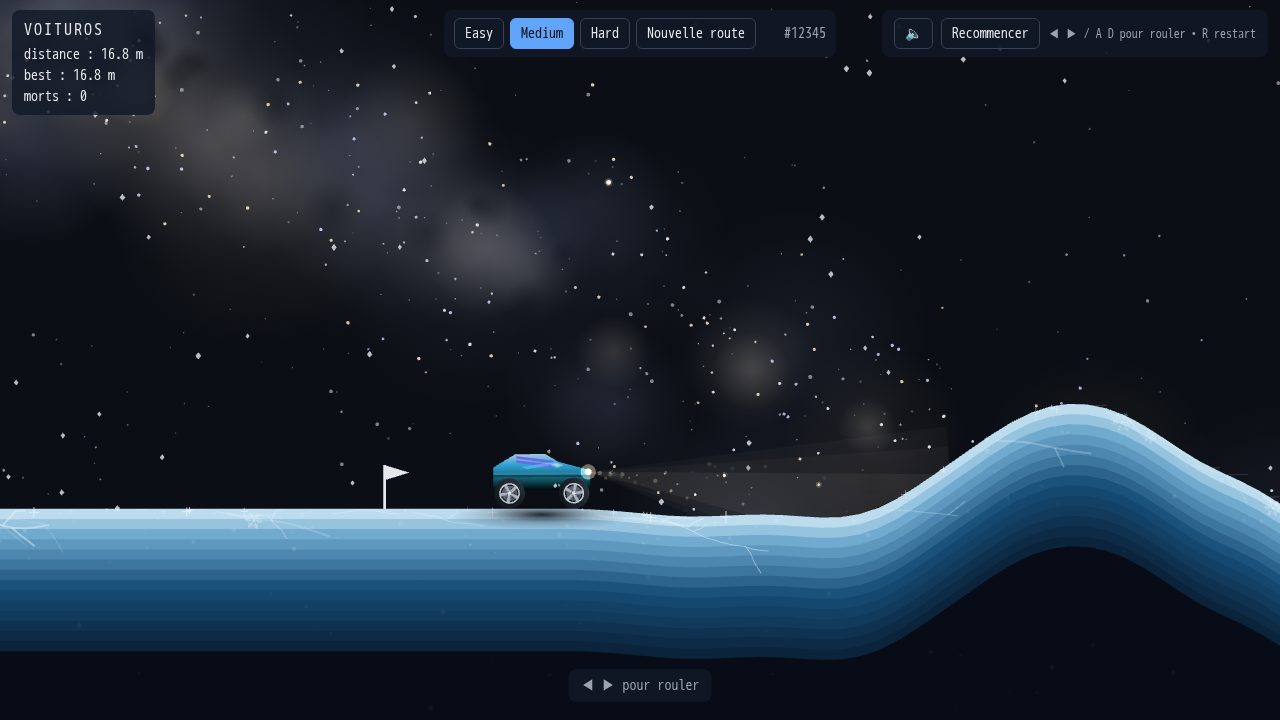
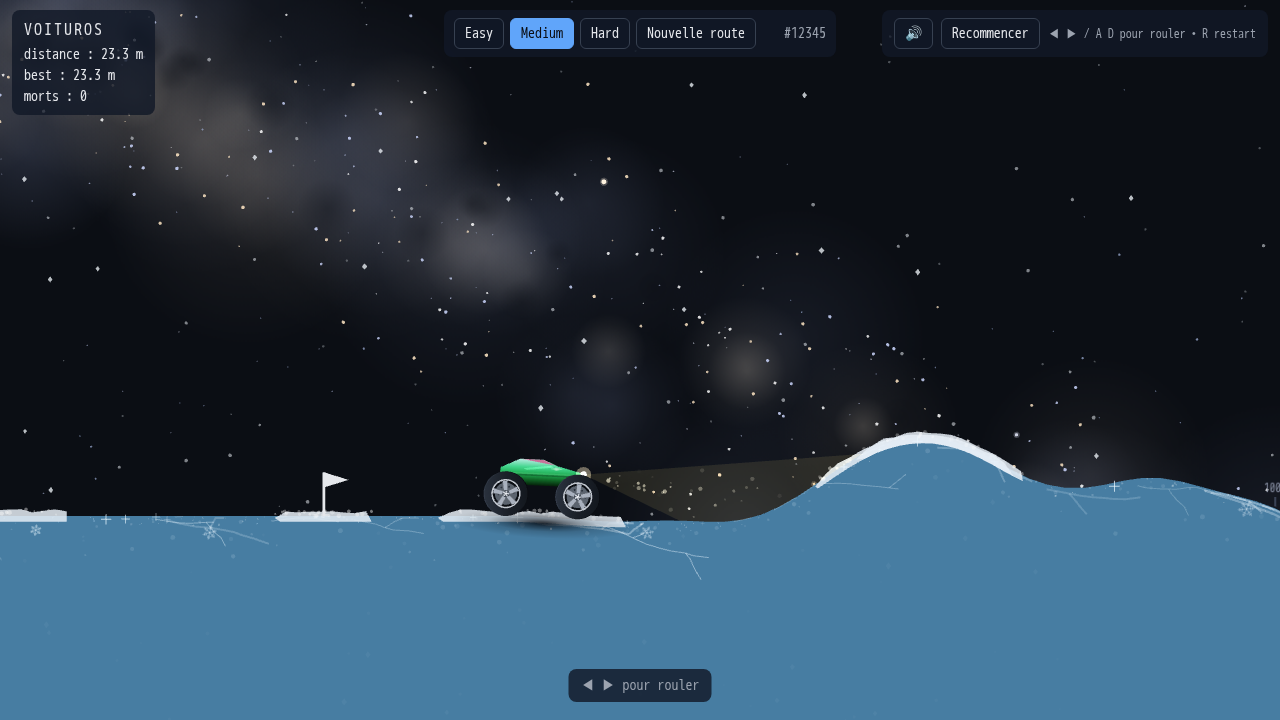
Voituros: neige monde + faisceau jaune + route organique + glace unie

diff --git a/src/neige.js b/src/neige.js
@@ -1,5 +1,20 @@
+/**
+ * Neige réaliste en COORDONNÉES MONDE (verrouillée au monde comme la
+ * glace : montée/descente/vitesse/zoom de la caméra justes par
+ * construction — aucun hack de vent apparent). 3 couches de profondeur,
+ * sway sinusoïdal par flocon, rafales globales, éclairée par le faisceau
+ * et clipsée au sol. Zéro alloc par frame.
+ * @module neige
+ */
+
+/** Nombre de flocons (fixe, tient 60 fps partout). */
 export const SNOW_N = 220;
 
+/**
+ * Crée la chute (positions monde, état persistant).
+ * @param {unknown} [seed] Graine.
+ * @returns {{ flakes: Array<{ x: number, y: number, z: 0|1|2, size: number, vy: number, ph: number, fr: number, sw: number }>, t: number, wind: number }}
+ */
 export function createSnow(seed = 7) {
   let s = (typeof seed === 'number' ? seed : 7) >>> 0 || 1;
   const rnd = () => {
@@ -14,8 +29,8 @@ export function createSnow(seed = 7) {
     const r = rnd();
     const z = r < 0.4 ? 0 : r < 0.75 ? 1 : 2;
     flakes.push({
-      x: rnd(),
-      y: rnd(),
+      x: (rnd() - 0.5) * 3000,
+      y: (rnd() - 0.5) * 1600,
       z,
       size: z === 0 ? 0.7 + rnd() * 0.6 : z === 1 ? 1.2 + rnd() * 0.8 : 2 + rnd() * 0.9,
       vy: z === 0 ? 25 + rnd() * 20 : z === 1 ? 50 + rnd() * 30 : 95 + rnd() * 45,
@@ -27,46 +42,57 @@ export function createSnow(seed = 7) {
   return { flakes, t: rnd() * 20, wind: 10 };
 }
 
-export function drawSnow(g, snow, dt, w, h, camVX = 0, env = null) {
+/**
+ * Met à jour + dessine la neige (projection caméra identique au monde :
+ * sx = (wx − camX)·zoom + w/2, sy = (wy − camY)·zoom + h·0.55).
+ * @param {PIXI.Graphics} g Cible (layer écran).
+ * @param {{ flakes: Array, t: number, wind: number }} snow État.
+ * @param {number} dt Delta temps (s).
+ * @param {{ w: number, h: number, camX: number, camY: number, zoom: number }} view Vue.
+ * @param {{ beam: (wx:number,wy:number)=>number, groundY: (wx:number)=>number } | null} [env] Faisceau + sol (optionnel).
+ * @returns {void}
+ */
+export function drawSnow(g, snow, dt, view, env = null) {
   const step = Math.min(0.1, Math.max(0, dt || 0));
   snow.t += step;
   const t = snow.t;
-
   snow.wind = 10 + 18 * Math.sin(t * 0.11) + 8 * Math.sin(t * 0.043 + 2);
   g.clear();
+  const w = view.w;
+  const h = view.h;
+  const zoom = view.zoom > 0 ? view.zoom : 1;
   if (w <= 0 || h <= 0 || !Number.isFinite(step) || step <= 0) return;
-  const vx = Math.max(-1500, Math.min(1500, Number.isFinite(camVX) ? camVX : 0));
-  const useEnv =
-    env !== null &&
-    env !== undefined &&
-    env.zoom > 0 &&
-    typeof env.beam === 'function' &&
-    typeof env.groundY === 'function';
-  const ez = useEnv ? env.zoom : 1;
-  const ecx = useEnv ? env.camX : 0;
-  const ecy = useEnv ? env.camY : 0;
+  const hw = w / zoom / 2 + 120;
+  const hh = h / zoom / 2 + 120;
+  const cx = view.camX;
+  const cy = view.camY;
+  const useEnv = env !== null && env !== undefined && typeof env.beam === 'function' && typeof env.groundY === 'function';
   for (const f of snow.flakes) {
     const depthK = f.z === 0 ? 0.4 : f.z === 1 ? 0.7 : 1;
-    f.y += (f.vy / h) * step;
-
-    const swayX = Math.sin(t * f.fr + f.ph) * f.sw;
-    f.x += ((snow.wind * depthK - vx * depthK * 0.9 + swayX * f.fr) / w) * step;
-    if (f.y > 1.02) {
-      f.y = -0.02;
-      f.x = Math.random();
-    } else if (f.y < -0.03) {
-      f.y = 1.01;
+    f.y += (f.vy / 1) * step;
+    f.x += snow.wind * depthK * step;
+    if (f.x < cx - hw) {
+      f.x += hw * 2;
+      f.y = cy + (Math.random() * 2 - 1) * hh;
+    } else if (f.x > cx + hw) {
+      f.x -= hw * 2;
+      f.y = cy + (Math.random() * 2 - 1) * hh;
     }
-    if (f.x > 1.03) f.x -= 1.06;
-    else if (f.x < -0.03) f.x += 1.06;
-    const px = f.x * w + swayX * 0.35;
-    const py = f.y * h;
+    if (f.y < cy - hh) {
+      f.y += hh * 2;
+      f.x = cx + (Math.random() * 2 - 1) * hw;
+    } else if (f.y > cy + hh) {
+      f.y -= hh * 2;
+      f.x = cx + (Math.random() * 2 - 1) * hw;
+    }
+    const swayX = Math.sin(t * f.fr + f.ph) * f.sw;
+    const wx = f.x + swayX * 0.35;
+    const wy = f.y;
+    const px = (wx - cx) * zoom + w / 2;
+    const py = (wy - cy) * zoom + (h * 0.55);
     let alpha = f.z === 0 ? 0.28 : f.z === 1 ? 0.5 : 0.75;
     let tint = '#f2f7fc';
     if (useEnv) {
-
-      const wx = (px - w / 2) / ez + ecx;
-      const wy = (py - h * 0.55) / ez + ecy;
       if (wy > env.groundY(wx) + 2) {
         alpha *= 0.06;
       } else {
@@ -77,9 +103,8 @@ export function drawSnow(g, snow, dt, w, h, camVX = 0, env = null) {
         }
       }
     }
+    const s = f.size * zoom;
     if (f.z === 2) {
-
-      const s = f.size;
       g.moveTo(px - s, py);
       g.lineTo(px, py - s * 1.25);
       g.lineTo(px + s, py);
@@ -87,9 +112,8 @@ export function drawSnow(g, snow, dt, w, h, camVX = 0, env = null) {
       g.closePath();
       g.fill({ color: tint, alpha });
     } else {
-      g.circle(px, py, f.size);
+      g.circle(px, py, s);
       g.fill({ color: tint, alpha });
     }
   }
 }
-

diff --git a/src/glace.js b/src/glace.js
@@ -1,12 +1,12 @@
 import { mulberry32 } from './utils.js';
 import { routeYAt } from './route.js';
 
-export const ICE_DEPTH = 150;
+export const ICE_DEPTH = 300;
 
 export const ICE_TINTS = {
-  easy: { top: '#d8eff7', mid: '#7fb8d9', deep: '#1d5a85' },
-  medium: { top: '#cfe8f5', mid: '#6fa9cf', deep: '#174e78' },
-  hard: { top: '#c2ddf0', mid: '#6399c2', deep: '#123f66' },
+  easy: { top: '#d3e9f4', mid: '#5f97ba', deep: '#1a4c72' },
+  medium: { top: '#c9e4f2', mid: '#5d93b8', deep: '#1a4e75' },
+  hard: { top: '#c0dcf0', mid: '#578ab2', deep: '#174870' },
 };
 
 function mixHex(a, b, t) {
@@ -30,27 +30,17 @@ export function drawIce(graphics, points, difficulty, seed) {
   const tint = ICE_TINTS[key] || ICE_TINTS.medium;
   const n = points.length;
   const rng = mulberry32(typeof seed === 'number' ? seed : 1);
+  const x0 = points[0].x;
+  const x1 = points[n - 1].x;
 
-  graphics.moveTo(points[0].x, points[0].y + ICE_DEPTH);
-  for (let i = 0; i < n; i++) graphics.lineTo(points[i].x, points[i].y + ICE_DEPTH);
+  const ICE = depthColor(tint, 0.3);
+  graphics.moveTo(points[0].x, points[0].y);
+  for (let i = 1; i < n; i++) graphics.lineTo(points[i].x, points[i].y);
   graphics.lineTo(points[n - 1].x, points[n - 1].y + 2000);
   graphics.lineTo(points[0].x, points[0].y + 2000);
   graphics.closePath();
-  graphics.fill({ color: '#070c16' });
+  graphics.fill({ color: ICE });
 
-  const BANDS = 14;
-  for (let b = 0; b < BANDS; b++) {
-    const f0 = b / BANDS;
-    const f1 = (b + 1) / BANDS;
-    graphics.moveTo(points[0].x, points[0].y + f0 * ICE_DEPTH);
-    for (let i = 1; i < n; i++) graphics.lineTo(points[i].x, points[i].y + f0 * ICE_DEPTH);
-    for (let i = n - 1; i >= 0; i--) graphics.lineTo(points[i].x, points[i].y + f1 * ICE_DEPTH);
-    graphics.closePath();
-    graphics.fill({ color: depthColor(tint, (f0 + f1) / 2) });
-  }
-
-  const x0 = points[0].x;
-  const x1 = points[n - 1].x;
   const clampCrack = (x, y) => {
     const cx = x < x0 + 10 ? x0 + 10 : x > x1 - 10 ? x1 - 10 : x;
     const sy = routeYAt(points, cx);
@@ -100,7 +90,7 @@ export function drawIce(graphics, points, difficulty, seed) {
   for (let r = 0; r < 3; r++) {
     let x = x0 + rng() * (x1 - x0 - 600);
     graphics.moveTo(x, routeYAt(points, x) + 4);
-    const len = 300 + rng() * 300;
+    const len = Math.min(300 + rng() * 300, x1 - 5 - x);
     for (let s = x; s < x + len; s += 24) {
       graphics.lineTo(s, routeYAt(points, s) + 4 + Math.sin(s * 0.02 + r * 2) * 3);
     }
@@ -115,34 +105,55 @@ export function drawIce(graphics, points, difficulty, seed) {
     graphics.fill({ color: '#e8f4fc', alpha: 0.05 + rng() * 0.1 });
   }
 
-  for (let i = 0; i < 500; i++) {
+  for (let i = 0; i < 1300; i++) {
     const x = x0 + rng() * (x1 - x0);
     const y = routeYAt(points, x) + rng() * rng() * 14;
     const s = rng() < 0.8 ? 1 : 2;
     graphics.rect(x, y, s, s);
-    graphics.fill({ color: rng() < 0.7 ? '#ffffff' : '#bfe6ff', alpha: 0.1 + rng() * 0.3 });
+    graphics.fill({ color: rng() < 0.7 ? '#ffffff' : '#bfe6ff', alpha: 0.12 + rng() * 0.33 });
   }
 
   const nc = Math.floor((x1 - x0) / 350);
   for (let i = 0; i < nc; i++) {
-    const x = x0 + rng() * (x1 - x0);
+    const x = x0 + 15 + rng() * (x1 - x0 - 30);
+    const cr = 6 + rng() * 7;
     drawCrystal(
       graphics,
       x,
-      routeYAt(points, x) + 4 + rng() * 10,
-      6 + rng() * 7,
+      routeYAt(points, x) + cr + 2 + rng() * 8,
+      cr,
       rng() * Math.PI,
       '#e8f4fc',
       0.16 + rng() * 0.16,
     );
   }
 
+  for (let i = 0; i < Math.floor((x1 - x0) / 220); i++) {
+    const w = 80 + rng() * 140;
+    const cx = x0 + w / 2 + 5 + rng() * (x1 - x0 - w - 10);
+    const drift = 3 + rng() * 8;
+    graphics.moveTo(cx - w / 2, routeYAt(points, cx - w / 2) + 2);
+    for (let x = cx - w / 2 + 12; x <= cx + w / 2; x += 12) {
+      graphics.lineTo(x, routeYAt(points, x) - drift * (0.5 + rng() * 0.5));
+    }
+    for (let x = cx + w / 2; x >= cx - w / 2; x -= 12) {
+      graphics.lineTo(x, routeYAt(points, x) + 6);
+    }
+    graphics.closePath();
+    graphics.fill({ color: '#e6eef6', alpha: 0.85 });
+    for (let k = 0; k < 24; k++) {
+      const x = cx - w / 2 + rng() * w;
+      graphics.circle(x, routeYAt(points, x) - rng() * drift, 1 + rng() * 1.5);
+      graphics.fill({ color: '#ffffff', alpha: 0.2 + rng() * 0.25 });
+    }
+  }
+
   for (let i = 0; i < 130; i++) {
     const x = x0 + rng() * (x1 - x0);
-    const y = routeYAt(points, x) + 1;
     const w = 6 + rng() * 22;
-    graphics.moveTo(x, y);
-    graphics.lineTo(x + w, y - 0.5);
+    const xB = x + w > x1 ? x1 : x + w;
+    graphics.moveTo(x, routeYAt(points, x) + 1);
+    graphics.lineTo(xB, routeYAt(points, xB) + 0.5);
     graphics.stroke({ width: 1, color: '#f4fbff', alpha: 0.07 + rng() * 0.14 });
   }
 }

diff --git a/src/main.js b/src/main.js
@@ -66,12 +66,8 @@ async function boot() {
   const snowGfx = new PIXI.Graphics();
   snowLayer.addChild(snowGfx);
   const snow = createSnow(7);
-
+  const snowView = { w: 0, h: 0, camX: 0, camY: 0, zoom: 1 };
   const snowEnv = {
-    camVX: 0,
-    camX: 0,
-    camY: 0,
-    zoom: 1,
     beam: (wx, wy) => (game.car ? beamLight(game.car, wx, wy) : 0),
     groundY: (wx) => (game.route ? routeYAt(game.route.points, wx) : 1e9),
   };
@@ -319,7 +315,6 @@ async function boot() {
   let acc = 0;
   let prev = performance.now();
   let muteTick = 0;
-  let prevCamX = 0;
   app.ticker.add(() => {
     const now = performance.now();
     const dt = Math.min((now - prev) / 1000, 0.1);
@@ -339,13 +334,12 @@ async function boot() {
     sky.update(dt, camera.camX, camera.camY);
 
     game.updateIce(dt, camera.camX, (app.screen.width || innerWidth) / (camera.zoom || 1));
-    const camVX = dt > 0 ? (camera.camX - prevCamX) / dt : 0;
-    prevCamX = camera.camX;
-    snowEnv.camVX = camVX;
-    snowEnv.camX = camera.camX;
-    snowEnv.camY = camera.camY;
-    snowEnv.zoom = camera.zoom || 1;
-    drawSnow(snowGfx, snow, dt, app.screen.width || innerWidth, app.screen.height || innerHeight, camVX, snowEnv);
+    snowView.w = app.screen.width || innerWidth;
+    snowView.h = app.screen.height || innerHeight;
+    snowView.camX = camera.camX;
+    snowView.camY = camera.camY;
+    snowView.zoom = camera.zoom || 1;
+    drawSnow(snowGfx, snow, dt, snowView, snowEnv);
 
     engine.update(dt, {
       speed: game.carLongSpeed,

diff --git a/src/route.js b/src/route.js
@@ -52,11 +52,14 @@ export function generateRoute(seed, difficulty) {
 
   const n1 = makeNoise1D(rng, P.stepNoise || 140, START_X, END_X);
   const n2 = makeNoise1D(rng, (P.stepNoise || 140) / 2.7, START_X, END_X);
+  const wob = makeNoise1D(rng, 430, START_X, END_X);
+  const warpAmp = P.L1 * 0.18;
 
   const rawY = (x) => {
     const env = smoothstep(200, 800, x);
-    const fbm = 0.65 * n1(x) + 0.35 * n2(x + 13.7);
-    return env * (P.A1 * Math.sin((TAU * x) / P.L1 + phi1) + P.A2 * Math.sin((TAU * x) / P.L2 + phi2) + P.A3 * fbm);
+    const xw = x + warpAmp * wob(x);
+    const fbm = 0.65 * n1(xw) + 0.35 * n2(xw + 13.7);
+    return env * (P.A1 * Math.sin((TAU * xw) / P.L1 + phi1) + P.A2 * Math.sin((TAU * xw) / P.L2 + phi2) + P.A3 * fbm);
   };
 
   const maxDy = Math.tan((P.slopeMaxDeg * Math.PI) / 180) * DX;

diff --git a/src/voiture.js b/src/voiture.js
@@ -626,9 +626,7 @@ export function updateCarLight(car, dt, routePoints) {
   const fan = car.fanMesh;
   fan.clear();
   const last = FAN_RAYS - 1;
-  drawFanPoly(fan, lx, ly, fanCos, fanSin, hits, 0, last, 1, '#ffe9b8', 0.03 * flick);
-  drawFanPoly(fan, lx, ly, fanCos, fanSin, hits, 6, last - 6, 1, '#ffe9b8', 0.035 * flick);
-  drawFanPoly(fan, lx, ly, fanCos, fanSin, hits, 14, last - 14, 1, '#fff0cf', 0.05 * flick);
+  drawFanPoly(fan, lx, ly, fanCos, fanSin, hits, 0, last, 1, '#ffdf6e', 0.1 * flick);
 
   const wash = car.washMesh;
   wash.clear();
